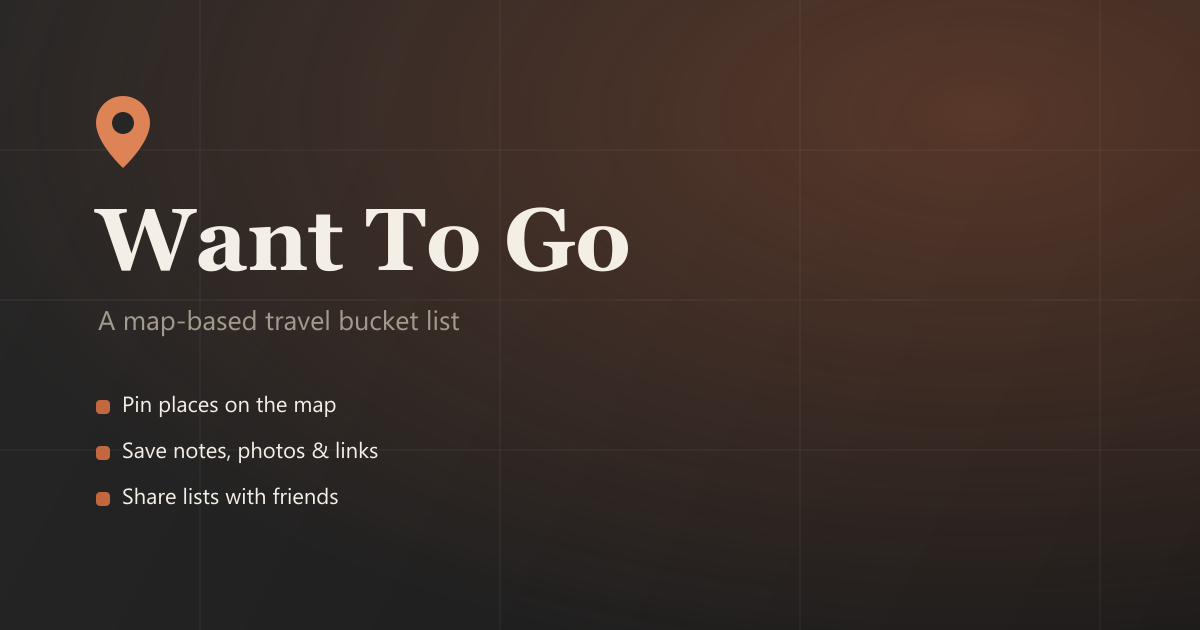
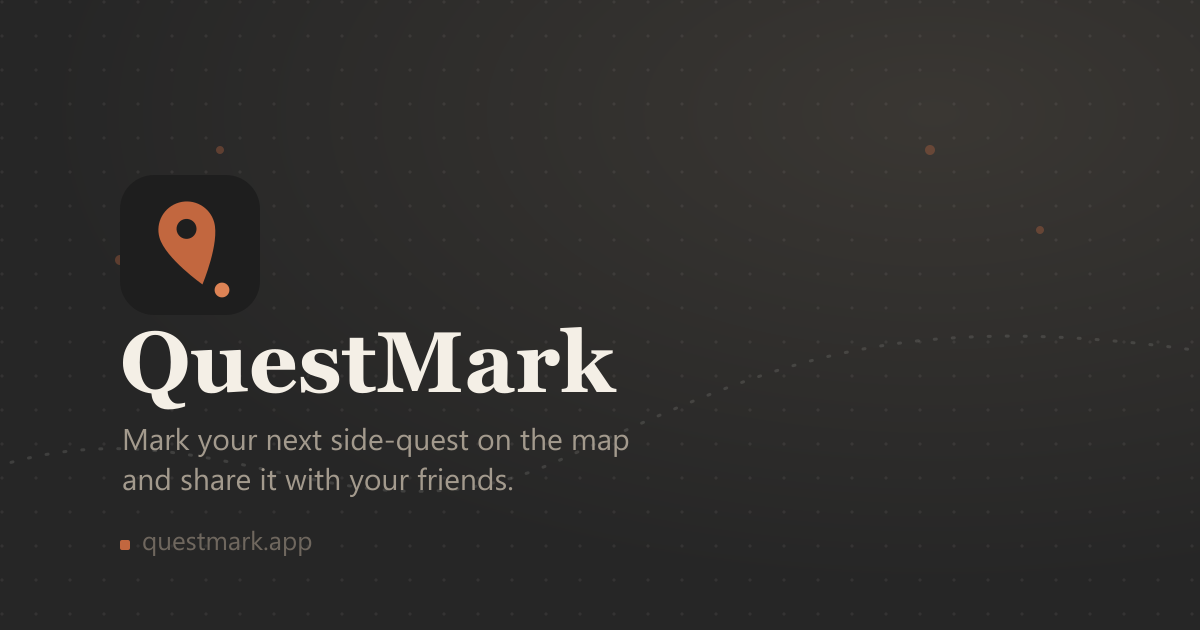
feat(questmark): add questmark branding to frontend

diff --git a/frontend/src/lib/components/ui/Logo.svelte b/frontend/src/lib/components/ui/Logo.svelte
@@ -1,0 +1,31 @@
+<script lang="ts">
+	let {
+		size = 'md',
+		iconOnly = false,
+		class: className = ''
+	} = $props<{
+		size?: 'sm' | 'md' | 'lg';
+		iconOnly?: boolean;
+		class?: string;
+	}>();
+
+	const iconSizes: Record<string, string> = { sm: 'h-5 w-5', md: 'h-6 w-6', lg: 'h-8 w-8' };
+	const textSizes: Record<string, string> = { sm: 'text-sm', md: 'text-base', lg: 'text-xl' };
+</script>
+
+<span class="inline-flex items-center gap-2 {className}">
+	<svg viewBox="0 0 32 32" class={iconSizes[size]} aria-hidden="true">
+		<rect width="32" height="32" rx="8" fill="#262626" />
+		<g transform="rotate(-16 16 15)">
+			<path
+				d="M16 6c-3.6 0-6.5 2.9-6.5 6.5 0 4.9 6.5 13 6.5 13s6.5-8.1 6.5-13C22.5 8.9 19.6 6 16 6z"
+				fill="#c2673f"
+			/>
+			<circle cx="16" cy="12.3" r="2.3" fill="#262626" />
+		</g>
+		<circle cx="22.5" cy="24.5" r="1.7" fill="#dd8355" />
+	</svg>
+	{#if !iconOnly}
+		<span class="font-semibold tracking-tight text-(--text) {textSizes[size]}">QuestMark</span>
+	{/if}
+</span>

diff --git a/frontend/src/lib/components/Landing.svelte b/frontend/src/lib/components/Landing.svelte
@@ -3,7 +3,9 @@
 	import Badge from '$lib/components/ui/Badge.svelte';
 	import Button from '$lib/components/ui/Button.svelte';
 	import FlagIcon from '$lib/components/ui/FlagIcon.svelte';
+	import Logo from '$lib/components/ui/Logo.svelte';
 	import Panel from '$lib/components/ui/Panel.svelte';
+	import { siteName, tagline } from '$lib/config/site';
 	import { beginLogin } from '$lib/dashboard/actions';
 	import { pickRandomDemoPlaces } from '$lib/dashboard/demoPlaces';
 	import type { PlaceRecord } from '$lib/types';
@@ -51,20 +53,17 @@
 <main class="h-screen overflow-y-auto px-6 py-10">
 	<div class="mx-auto flex max-w-5xl flex-col gap-16">
 		<nav class="flex items-center justify-between">
-			<div class="inline-flex items-center gap-2 text-sm font-semibold text-(--text)">
-				<span class="h-1.5 w-1.5 rounded-full bg-(--accent)"></span>
-				Want To Go
-			</div>
+			<Logo />
 			<Button variant="ghost" size="sm" onclick={beginLogin}>Sign in</Button>
 		</nav>
 
 		<section class="max-w-2xl">
 			<h1 class="mt-6 text-4xl font-semibold tracking-tight text-(--text) md:text-6xl">
-				Save your next trip on a map, not in a notes app.
+				{tagline}
 			</h1>
 			<p class="mt-4 max-w-xl text-base text-(--muted) md:text-lg">
-				Want To Go is where you collect the places you want to visit - search for them, drop a pin,
-				and keep notes, photos, and links right where you’ll actually see them again.
+				{siteName} is where you collect the places worth chasing - search for them, drop a pin, and
+				keep notes, photos, and links right where you’ll actually see them again.
 			</p>
 			<div class="mt-8 flex flex-wrap gap-3">
 				<Button onclick={beginLogin}>Get started - it’s free</Button>
@@ -146,7 +145,7 @@
 		<footer
 			class="flex flex-wrap items-center justify-between gap-4 border-t border-(--border) pt-6 text-sm text-(--muted-dim)"
 		>
-			<span>&copy; {new Date().getFullYear()} Want To Go</span>
+			<span>&copy; {new Date().getFullYear()} {siteName}</span>
 			<div class="flex gap-4">
 				<a href="/privacy" class="hover:text-(--text)">Privacy Policy</a>
 				<a href="/legal-notice" class="hover:text-(--text)">Legal Notice</a>

diff --git a/frontend/src/routes/privacy/+page.svelte b/frontend/src/routes/privacy/+page.svelte
@@ -1,14 +1,15 @@
 <script lang="ts">
 	import Seo from '$lib/components/Seo.svelte';
 	import Panel from '$lib/components/ui/Panel.svelte';
+	import { siteName } from '$lib/config/site';
 </script>
 
-<Seo title="Privacy Policy" description="How Want To Go handles your data." />
+<Seo title="Privacy Policy" description="How {siteName} handles your data." />
 
 <main class="flex h-screen justify-center overflow-y-auto px-6 py-10">
 	<div class="w-full max-w-3xl">
 		<nav class="mb-6 flex items-center gap-4 text-sm text-(--muted)">
-			<a href="/" class="hover:text-(--text)">&larr; Back to Want To Go</a>
+			<a href="/" class="hover:text-(--text)">&larr; Back to {siteName}</a>
 			<a href="/legal-notice" class="hover:text-(--text)">Legal Notice</a>
 		</nav>
 
@@ -23,7 +24,7 @@
 			<section class="space-y-2">
 				<h2 class="text-lg font-semibold text-(--text)">1. Who we are</h2>
 				<p class="text-sm text-(--muted) md:text-base">
-					Want To Go is operated by Ben Schiemann. If you have questions about this policy or your
+					{siteName} is operated by Ben Schiemann. If you have questions about this policy or your
 					data, contact <a href="mailto:[email redacted]" class="text-(--accent-strong) underline"
 						>[email redacted]</a
 					>. Full operator details are on the
@@ -34,7 +35,7 @@
 			<section class="space-y-2">
 				<h2 class="text-lg font-semibold text-(--text)">2. Account &amp; sign-in</h2>
 				<p class="text-sm text-(--muted) md:text-base">
-					Want To Go uses OAuth-based sign-in. We only store an account ID and username &mdash; we
+					{siteName} uses OAuth-based sign-in. We only store an account ID and username &mdash; we
 					never collect or store your email address or a password. Your session is authenticated
 					with a token stored in your browser's local storage.
 				</p>

diff --git a/frontend/src/routes/+layout.svelte b/frontend/src/routes/+layout.svelte
@@ -7,6 +7,10 @@
 <svelte:head>
 	<meta name="viewport" content="width=device-width, initial-scale=1" />
 	<meta name="theme-color" content="#262626" />
-	<link rel="icon" href="/brand-icon.svg" />
+	<link rel="icon" href="/brand-icon.svg" type="image/svg+xml" />
+	<link rel="icon" href="/favicon-32x32.png" sizes="32x32" type="image/png" />
+	<link rel="icon" href="/favicon-16x16.png" sizes="16x16" type="image/png" />
+	<link rel="apple-touch-icon" href="/apple-touch-icon.png" />
+	<link rel="manifest" href="/manifest.webmanifest" />
 </svelte:head>
 {@render children()}

diff --git a/frontend/src/lib/config/site.ts b/frontend/src/lib/config/site.ts
@@ -1,5 +1,6 @@
-export const siteName = 'questmark.app';
+export const siteName = 'QuestMark';
 export const siteUrl = 'https://questmark.app';
+export const tagline = 'Mark your next side-quest on the map and share it with your friends.';
 export const defaultDescription =
-	'A map-based travel bucket list. Save your favorite places and plan your next adventure. Share lists with your friends.';
+	'QuestMark is a map-based bucket list for your next side-quest. Pin the places you want to go, keep notes and photos, and share the map with friends.';
 export const defaultOgImage = `${siteUrl}/og-image.png`;

diff --git a/frontend/src/routes/legal-notice/+page.svelte b/frontend/src/routes/legal-notice/+page.svelte
@@ -1,14 +1,15 @@
 <script lang="ts">
 	import Seo from '$lib/components/Seo.svelte';
 	import Panel from '$lib/components/ui/Panel.svelte';
+	import { siteName } from '$lib/config/site';
 </script>
 
-<Seo title="Legal Notice" description="Legal notice / Impressum for Want To Go." />
+<Seo title="Legal Notice" description="Legal notice / Impressum for {siteName}." />
 
 <main class="flex h-screen justify-center overflow-y-auto px-6 py-10">
 	<div class="w-full max-w-3xl">
 		<nav class="mb-6 flex items-center gap-4 text-sm text-(--muted)">
-			<a href="/" class="hover:text-(--text)">&larr; Back to Want To Go</a>
+			<a href="/" class="hover:text-(--text)">&larr; Back to {siteName}</a>
 			<a href="/privacy" class="hover:text-(--text)">Privacy Policy</a>
 		</nav>
 

diff --git a/frontend/src/routes/lists/join/[token]/+page.svelte b/frontend/src/routes/lists/join/[token]/+page.svelte
@@ -5,6 +5,7 @@
 	import { setPendingListJoin } from '$lib/api/pendingListJoin';
 	import { getStoredToken } from '$lib/api/token';
 	import Seo from '$lib/components/Seo.svelte';
+	import { siteName } from '$lib/config/site';
 	import { joinSharedList } from '$lib/dashboard/actions';
 	import { session } from '$lib/state/session.svelte';
 	import { onMount } from 'svelte';
@@ -37,7 +38,7 @@
 
 <Seo
 	title="You're invited to a shared list"
-	description="Join a shared travel list on Want To Go - a map-based travel bucket list."
+	description="Join a shared travel list on QuestMark - a map-based travel bucket list."
 	noindex
 />
 
@@ -45,7 +46,7 @@
 	<div
 		class="max-w-md rounded-3xl border border-(--border) bg-(--surface) p-8 shadow-2xl shadow-black/40"
 	>
-		<p class="text-xs text-(--accent-strong)">Want To Go</p>
+		<p class="text-xs text-(--accent-strong)">{siteName}</p>
 		<h1 class="mt-4 text-3xl font-semibold text-(--text)">{status}</h1>
 		<p class="mt-3 text-sm text-(--muted)">
 			If redirecting takes too long, return to the home page and try again.

diff --git a/frontend/src/routes/auth/callback/+page.svelte b/frontend/src/routes/auth/callback/+page.svelte
@@ -3,6 +3,7 @@
 	import { getBackendUrl } from '$lib/api/client';
 	import { setStoredToken } from '$lib/api/token';
 	import Seo from '$lib/components/Seo.svelte';
+	import { siteName } from '$lib/config/site';
 	import { onMount } from 'svelte';
 
 	let status = $state('Completing sign-in...');
@@ -38,7 +39,7 @@
 	<div
 		class="max-w-md rounded-3xl border border-(--border) bg-(--surface) p-8 shadow-2xl shadow-black/40"
 	>
-		<p class="text-xs text-(--accent-strong)">Want To Go</p>
+		<p class="text-xs text-(--accent-strong)">{siteName}</p>
 		<h1 class="mt-4 text-3xl font-semibold text-(--text)">{status}</h1>
 		<p class="mt-3 text-sm text-(--muted)">
 			If redirecting takes too long, return to the home page and try again.

diff --git a/README.md b/README.md
@@ -1,7 +1,5 @@
-# want to go
+# questmark.app
 
 ## Missing Features
-  
+
 - Themes
-- Orte wo man schon war markieren
-- /wrapped